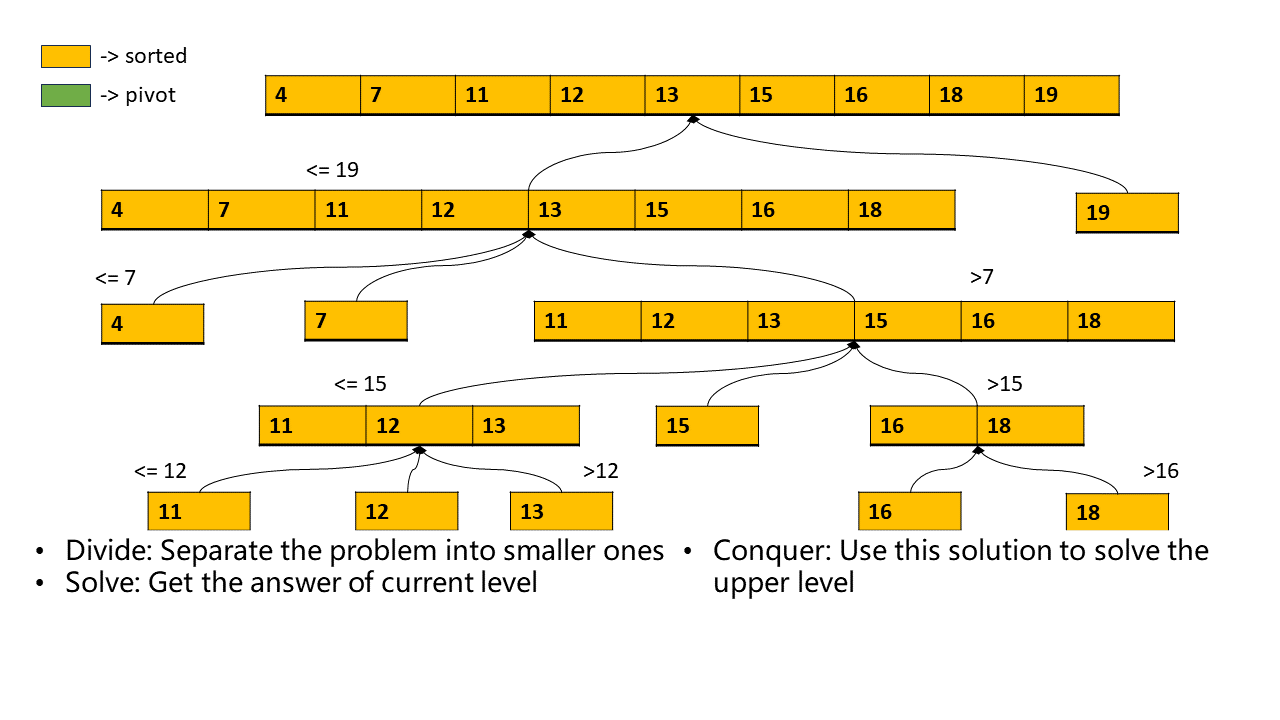
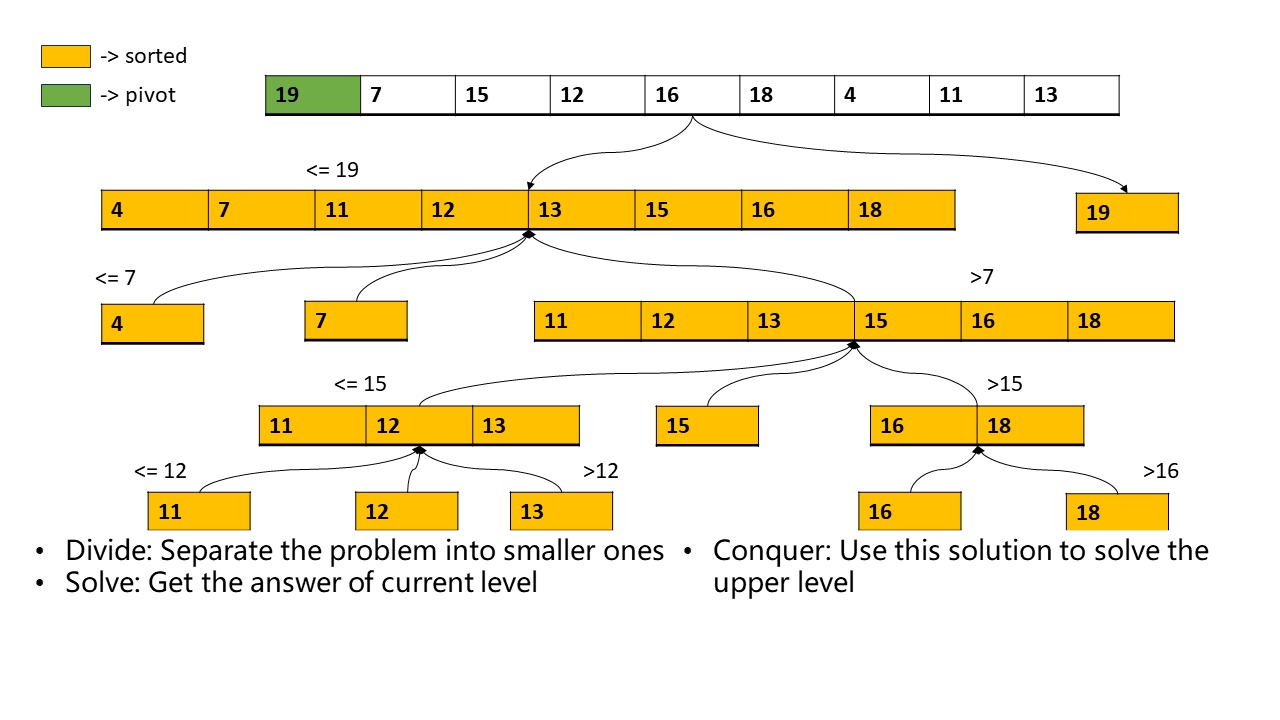
modification

Changed region(s): [[0.1875, 0.0917, 0.875, 0.1833]]

diff --git a/sort/firstpivot/script.js b/sort/firstpivot/script.js
@@ -1,22 +1,32 @@
 var pic;
 var picid = 1;
 function press(sw) {
-    if (picid == -1 && sw != 2) {alert("This arrays is already sorted.\nPlease press reset button!");}
-    else{
         if (sw == 0) {
-            picid = (picid == 9) ? 9 : picid +=1; 
-            pic = "pics/".concat(picid.toString(),".png");}
+            myarray = [10,11,13,16,20];
+            if (picid <= 4) {picid += 1;}
+            else if (myarray.includes(picid)) {alert("Problem solved! Try reset or back!")}
+            else if (picid == 5) {alert("No more division needed, try conquer or solve instead!")}
+            else {alert("All sub-problems solved, try conquer instead!")}}
          else  if (sw == 1) {
-            picid = (picid == 1) ? 1 : picid -=1; 
-            pic = "pics/".concat(picid.toString(),".png");}
+            if (picid <= 4) {alert("Problem unsolved! Try divide instead!");}
+            else if (myarray.includes(picid)) {alert("Problem solved! Try reset or back!")}
+            else {picid += 1;}}
         else  if (sw == 2) {
-            picid = 1;
-            pic = "pics/".concat(picid.toString(),".png");}
-        else {
-            if (picid > 4) {picid = 4;}
-            pic = "pics/".concat(picid.toString(),"sorted",".png");
-            picid = -1;}}
-  document.getElementById('myImage').src = pic;
+            if (picid <= 2) {picid += 10;}
+            else if (picid == 3) {picid += 11;}
+            else if (picid == 4) {picid += 13;}
+            else if (picid == 5) {picid += 1;}
+            else if (myarray.includes(picid)) {alert("Problem solved! Try reset or back!")}
+            else {alert("All sub-problems solved, try conquer instead!")}}
+        else  if (sw == 3) {
+            if (picid == 12 || picid == 11) {picid -= 10;}
+            else if (picid == 1) {picid = 1;}
+            else if (picid == 14) {picid -= 11;}
+            else if (picid == 17) {picid -=13;}
+            else {picid -= 1;}}
+        else {picid = 1;}
+        pic = "pics/".concat(picid.toString(),".png");
+        document.getElementById('myImage').src = pic;
 };
 
 function quiz() {

diff --git a/firstpivot/script.js b/firstpivot/script.js
@@ -2,25 +2,27 @@ var pic;
 var picid = 1;
 function press(sw) {
         if (sw == 0) {
-            myarray = [9,10,12,15,19];
+            myarray = [10,11,13,16,20];
             if (picid <= 4) {picid += 1;}
             else if (myarray.includes(picid)) {alert("Problem solved! Try reset or back!")}
+            else if (picid == 5) {alert("No more division needed, try conquer or solve instead!")}
             else {alert("All sub-problems solved, try conquer instead!")}}
          else  if (sw == 1) {
             if (picid <= 4) {alert("Problem unsolved! Try divide instead!");}
             else if (myarray.includes(picid)) {alert("Problem solved! Try reset or back!")}
             else {picid += 1;}}
         else  if (sw == 2) {
-            if (picid <= 2) {picid += 9;}
-            else if (picid == 3) {picid += 10;}
-            else if (picid == 4) {picid += 12;}
+            if (picid <= 2) {picid += 10;}
+            else if (picid == 3) {picid += 11;}
+            else if (picid == 4) {picid += 13;}
+            else if (picid == 5) {picid += 1;}
             else if (myarray.includes(picid)) {alert("Problem solved! Try reset or back!")}
             else {alert("All sub-problems solved, try conquer instead!")}}
         else  if (sw == 3) {
-            if (picid == 10 || picid == 11) {picid -= 9;}
+            if (picid == 12 || picid == 11) {picid -= 10;}
             else if (picid == 1) {picid = 1;}
-            else if (picid == 13) {picid -= 10;}
-            else if (picid == 16) {picid -=12;}
+            else if (picid == 14) {picid -= 11;}
+            else if (picid == 17) {picid -=13;}
             else {picid -= 1;}}
         else {picid = 1;}
         pic = "pics/".concat(picid.toString(),".png");

diff --git a/sort/firstpivot/main.html b/sort/firstpivot/main.html
@@ -15,10 +15,11 @@
 <img id="myImage" src="pics/1.png">
 
 <p>
-<button class="button button1" onclick="press(0)">Forward</button>
-<button class="button button2" onclick="press(1)">Back</button>
-<button class="button button3" onclick="press(2)">Reset</button>
-<button class="button button4" onclick="press(3)">Sort</button>
+<button class="button button1" onclick="press(0)">Divide</button>
+<button class="button button1" onclick="press(1)">Conquer</button>
+<button class="button button4" onclick="press(2)">Solve</button>
+<button class="button button2" onclick="press(3)">Back</button>
+<button class="button button3" onclick="press(4)">Reset</button>
 <button class="button button5" onclick="quiz()">Quizzes</button>
 <button class="button button6" onclick="back()">Homepage</button>
 </p>
